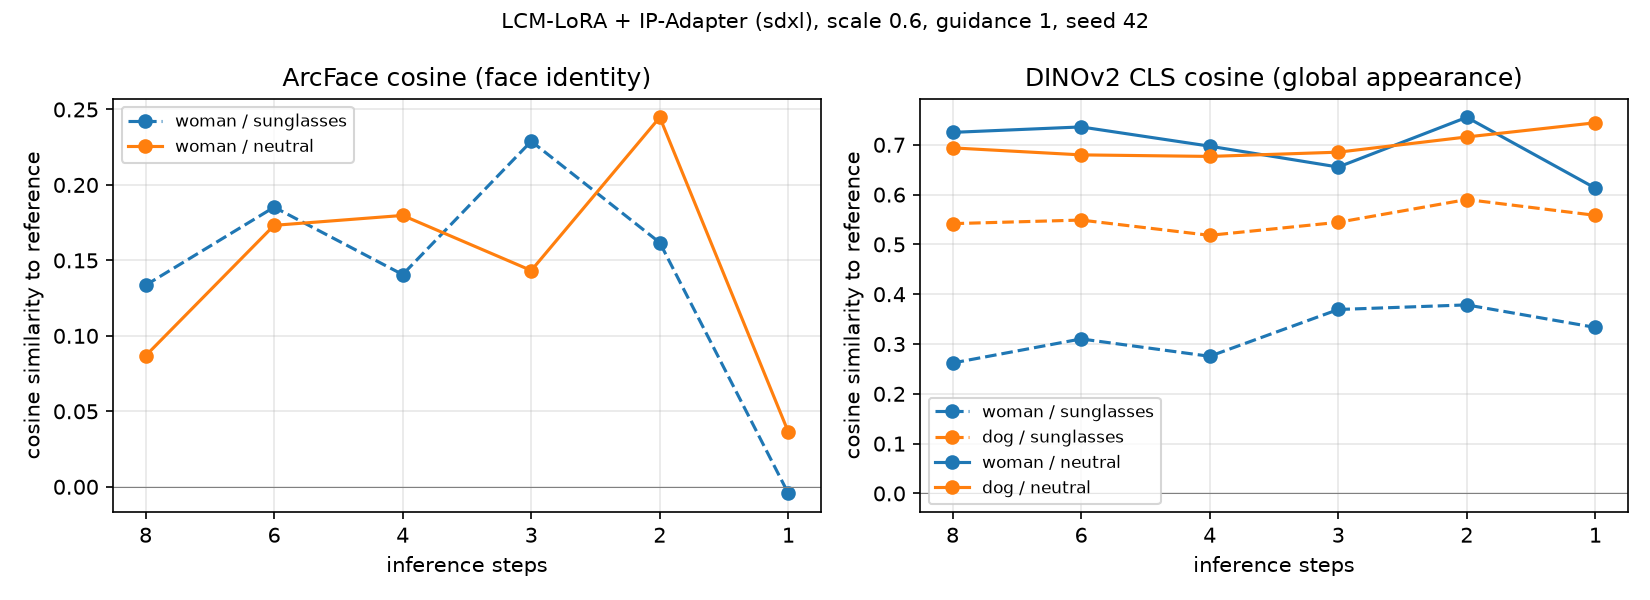
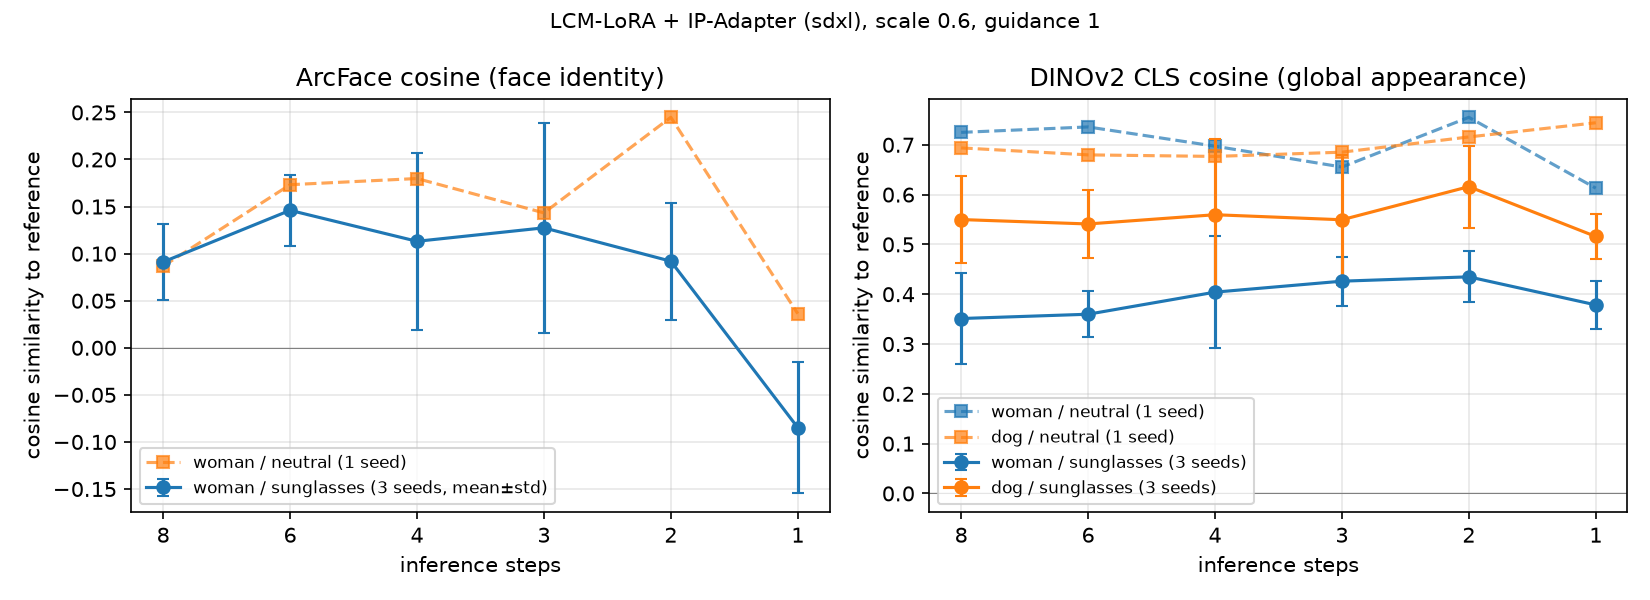
Add 3-seed identity curve with error bars

diff --git a/pilot/plot_curve.py b/pilot/plot_curve.py
@@ -1,44 +1,43 @@
-# Plot identity similarity vs. number of inference steps.
-# Left: ArcFace (woman only). Right: DINOv2 (woman + dog). Two prompt groups each.
+# Plot identity similarity vs. inference steps.
+# Main lines: 3-seed mean ± std (sunglasses prompt). Dashed: single-seed neutral prompt for reference.
 import pandas as pd
 import matplotlib
 matplotlib.use("Agg")
 import matplotlib.pyplot as plt
 
-GROUPS = {
-    "sunglasses": "/workspace/outputs/eval_ipa.csv",
-    "neutral":    "/workspace/outputs/eval_ipa_neutral.csv",
-}
-STEPS = [8, 6, 4, 3, 2, 1]          # x-axis, descending: fewer steps to the right
+STEPS = [8, 6, 4, 3, 2, 1]
+X = range(len(STEPS))
+seeds   = pd.read_csv("/workspace/outputs/eval_ipa_seeds.csv")
+neutral = pd.read_csv("/workspace/outputs/eval_ipa_neutral.csv")
+agg = seeds.groupby(["subject", "step"])[["dino", "arcface"]].agg(["mean", "std"])
+
+def series(df, subject, metric, stat=None):
+    if stat is None:                      # single-seed frame
+        return df[df.subject == subject].set_index("step").loc[STEPS][metric]
+    return agg.loc[subject].loc[STEPS][(metric, stat)]
 
 fig, (ax_arc, ax_dino) = plt.subplots(1, 2, figsize=(11, 4))
 
-for group, csv in GROUPS.items():
-    df = pd.read_csv(csv).rename(columns={"arc_embed": "arcface"})  # old CSV used arc_embed
-    ls = "-" if group == "neutral" else "--"
+# ---- ArcFace (woman) ----
+ax_arc.errorbar(X, series(None, "woman", "arcface", "mean"), yerr=series(None, "woman", "arcface", "std"),
+                marker="o", capsize=3, label="woman / sunglasses (3 seeds, mean±std)")
+ax_arc.plot(X, series(neutral, "woman", "arcface"), "--", marker="s", alpha=0.7,
+            label="woman / neutral (1 seed)")
 
-    # ArcFace: woman only
-    w = df[df.subject == "woman"].set_index("step").loc[STEPS]
-    ax_arc.plot(range(len(STEPS)), w["arcface"], ls, marker="o", label=f"woman / {group}")
-
-    # DINOv2: both subjects
-    for subject, color in [("woman", "C0"), ("dog", "C1")]:
-        s = df[df.subject == subject].set_index("step").loc[STEPS]
-        ax_dino.plot(range(len(STEPS)), s["dino"], ls, marker="o", color=color,
-                     label=f"{subject} / {group}")
+# ---- DINOv2 ----
+for subject, color in [("woman", "C0"), ("dog", "C1")]:
+    ax_dino.errorbar(X, series(None, subject, "dino", "mean"), yerr=series(None, subject, "dino", "std"),
+                     marker="o", capsize=3, color=color, label=f"{subject} / sunglasses (3 seeds)")
+    ax_dino.plot(X, series(neutral, subject, "dino"), "--", marker="s", color=color, alpha=0.7,
+                 label=f"{subject} / neutral (1 seed)")
 
 for ax, title in [(ax_arc, "ArcFace cosine (face identity)"),
                   (ax_dino, "DINOv2 CLS cosine (global appearance)")]:
-    ax.set_xticks(range(len(STEPS)))
-    ax.set_xticklabels(STEPS)
-    ax.set_xlabel("inference steps")
-    ax.set_ylabel("cosine similarity to reference")
-    ax.set_title(title)
-    ax.axhline(0, color="gray", lw=0.5)
-    ax.grid(alpha=0.3)
-    ax.legend(fontsize=8)
+    ax.set_xticks(list(X)); ax.set_xticklabels(STEPS)
+    ax.set_xlabel("inference steps"); ax.set_ylabel("cosine similarity to reference")
+    ax.set_title(title); ax.axhline(0, color="gray", lw=0.5); ax.grid(alpha=0.3); ax.legend(fontsize=8)
 
-fig.suptitle("LCM-LoRA + IP-Adapter (sdxl), scale 0.6, guidance 1, seed 42", fontsize=10)
+fig.suptitle("LCM-LoRA + IP-Adapter (sdxl), scale 0.6, guidance 1", fontsize=10)
 fig.tight_layout()
 fig.savefig("/workspace/outputs/curve_ipa.png", dpi=150)
 print("saved /workspace/outputs/curve_ipa.png")

diff --git a/pilot/eval_identity.py b/pilot/eval_identity.py
@@ -35,18 +35,20 @@ for subject, fname in cate.items():
 
 ref_arc = {'woman': arc_embed(cv2.imread('/workspace/pilot/refs/person.jpeg'))}
 
+IN_DIR = '/workspace/outputs/ipa_seeds'
 rows = []
 for subject in cate:
     for step in [8, 6, 4, 3, 2, 1]:
-        path = f'/workspace/outputs/ipa_neutral/{subject}_step{step}.png'
-        d = float(dino_embed(Image.open(path).convert('RGB')) @ ref_dino[subject])
-        if subject in ref_arc:
-            e = arc_embed(cv2.imread(path))
-            a = float('nan') if e is None else float(e @ ref_arc[subject])
-        else:
-            a = float('nan')
-        rows.append(dict(subject=subject, step=step, dino=d, arcface=a))
+        for seed in [42, 43, 44]:
+            path = f'{IN_DIR}/ref_{subject}/{subject}_step{step}_seed{seed}.png'
+            d = float(dino_embed(Image.open(path).convert('RGB')) @ ref_dino[subject])
+            if subject in ref_arc:
+                e = arc_embed(cv2.imread(path))
+                a = float('nan') if e is None else float(e @ ref_arc[subject])
+            else:
+                a = float('nan')
+            rows.append(dict(subject=subject, step=step, dino=d, arcface=a, seed=seed))
 
 df = pd.DataFrame(rows)
-print(df)
-df.to_csv(f"/workspace/outputs/eval_ipa_neutral.csv", index=False)
+print(df.groupby(['subject', 'step'])[['dino', 'arcface']].agg(['mean', 'std']).round(3))
+df.to_csv('/workspace/outputs/eval_ipa_seeds.csv', index=False)

diff --git a/pilot/gen_ipadapter.py b/pilot/gen_ipadapter.py
@@ -21,15 +21,17 @@ print(type(list(pipe.unet.attn_processors.values())[0]).__name__)
 
 
 refs = {'woman':'person.jpeg', 'dog':'dog.jpg'}
+OUT_DIR = '/workspace/outputs/ipa_seeds'
 for i in [8, 6, 4, 3, 2, 1]:
     for subject, k in refs.items():
-        os.makedirs(f'/workspace/outputs/ipa_neutral/ref_{subject}', exist_ok=True)
-        generator = torch.Generator('cuda').manual_seed(42)
-        image = pipe(
-            prompt = f"a photo of a {subject}",
-            num_inference_steps=i,
-            guidance_scale=1,
-            ip_adapter_image = Image.open(f'/workspace/pilot/refs/{k}').convert('RGB'),
-            generator = generator
-        ).images[0]
-        image.save(f'/workspace/outputs/ipa_neutral/{subject}_step{i}.png') 
+        os.makedirs(f'{OUT_DIR}/ref_{subject}', exist_ok=True)
+        for seed in [42, 43, 44]:
+            generator = torch.Generator('cuda').manual_seed(seed)
+            image = pipe(
+                prompt = f"a photo of a {subject} wearing sunglasses, on a beach",
+                num_inference_steps=i,
+                guidance_scale=1,
+                ip_adapter_image = Image.open(f'/workspace/pilot/refs/{k}').convert('RGB'),
+                generator = generator
+            ).images[0]
+            image.save(f'{OUT_DIR}/ref_{subject}/{subject}_step{i}_seed{seed}.png')

diff --git a/pilot/NOTES.md b/pilot/NOTES.md
@@ -63,3 +63,21 @@
 - Day 5 人脸赛道换 `ip-adapter-plus-face_sdxl_vit-h`(需单独加载 ViT-H 图像编码器)。基础版数据保留作"通用 vs 人脸 adapter"对照。
 - 曲线改 ≥3 seed 均值(8→6→4→3 的抖动是单 seed 噪声)。
 - 面谈一句话:"同一张 1 步图,DINO 0.33 说还行,ArcFace −0.004 说身份归零——坍塌是细粒度的,只有细粒度指标看得见。"
+
+## 面谈日程(2026-09-08 晚定,Mac 会话)
+- **9/11 发邮件**申请 **9/15(周二)面谈**。邮件三四句 + 附曲线图。
+- 压缩表:9/9 Day4 曲线(已完成)→ 9/10 三骨干(当晚砍线检查)→ 9/11 发信+图表定稿 → 9/12–13 slides → 9/14 模拟面谈两轮压一天 → 9/15 面谈。
+- 砍掉:IP-Adapter scale 消融。推导③④塞任意晚上。
+
+## Day-4 晚补:3-seed 均值曲线(2026-09-09,墨镜组,seed 42/43/44)
+
+| | 8 | 6 | 4 | 3 | 2 | **1** |
+|---|---|---|---|---|---|---|
+| ArcFace woman (mean±std) | 0.09±0.04 | 0.15±0.04 | 0.11±0.09 | 0.13±0.11 | 0.09±0.06 | **−0.085±0.07** |
+| DINO woman | 0.35±0.09 | 0.36±0.05 | 0.40±0.11 | 0.43±0.05 | 0.44±0.05 | 0.38±0.05 |
+| DINO dog | 0.55±0.09 | 0.54±0.07 | 0.56±0.15 | 0.55±0.13 | 0.62±0.08 | 0.52±0.04 |
+
+- **曲线形态定案:平台 + 1 步悬崖**。2→1 的 ArcFace 差距 0.18 > 2σ;2–8 步平台误差带互相重叠,单 seed 时的抖动确认为噪声。
+- DINO 两主体在误差带内均无悬崖。
+- 图:`outputs/curve_ipa.png`(3-seed 主线 + 中性组单 seed 虚线);旧单 seed 版存 `curve_ipa_single_seed.png`。
+- 附件包(教授面谈):curve_ipa.png + grid_ipa.png(Mac 上拼)+ research_summary.html→PDF(Mac,`DriftPaper/06_교수면담/`)。
